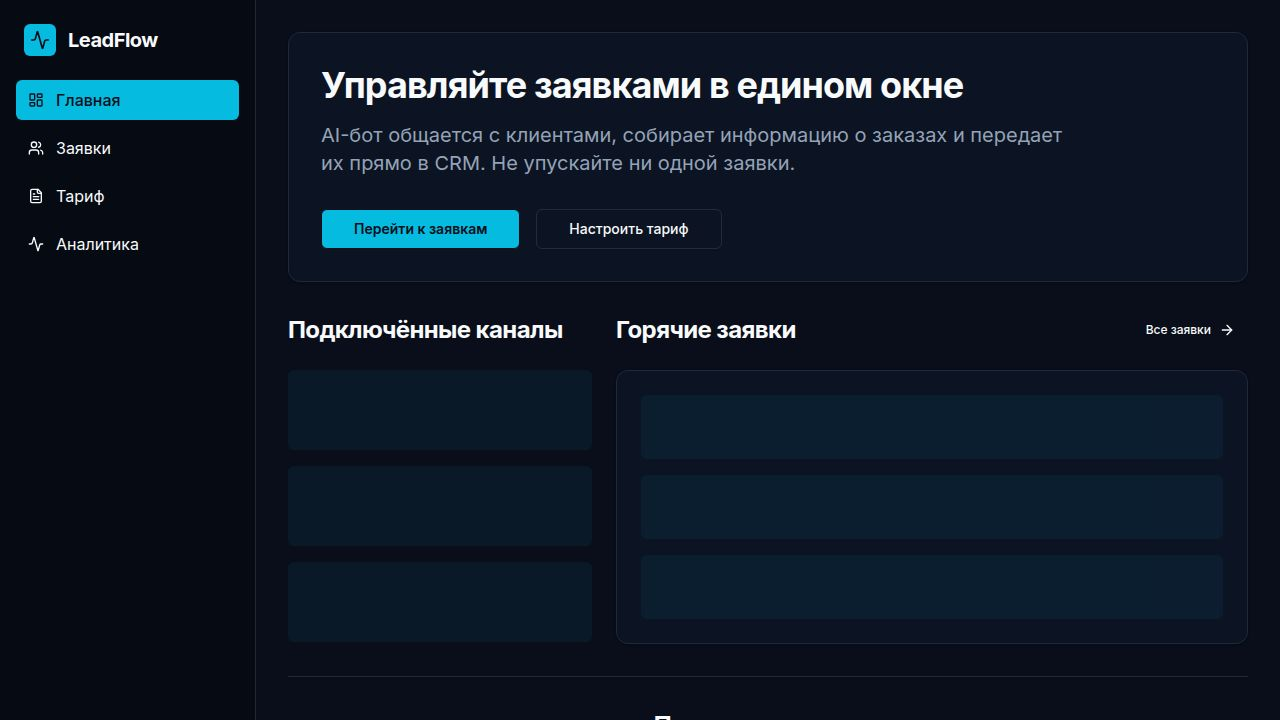
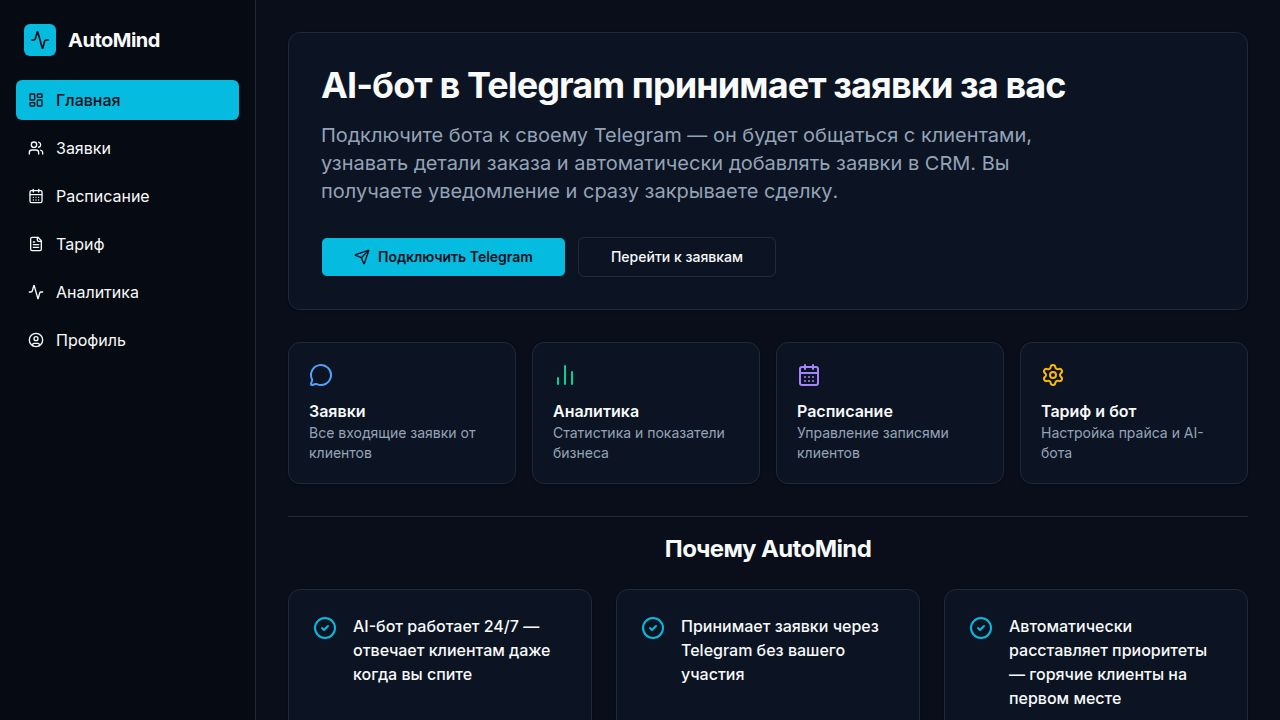
Improve profile page to handle user registration and existing accounts
Refactors the profile page to differentiate between new user registration and existing user profiles, addressing the issue of the "Сохраняем..." button appearing for already registered users.

Replit-Commit-Author: Agent
Replit-Commit-Session-Id: 1d4cea4e-092e-4a2a-be51-05aae2f8032e
Replit-Commit-Checkpoint-Type: full_checkpoint
Replit-Commit-Event-Id: 1fc39bb5-708d-4176-9d27-610b4768970d
Replit-Commit-Screenshot-Url: https://storage.googleapis.com/screenshot-production-us-central1/a2cc801b-731f-4885-bb4d-5eb19b6b8d47/1d4cea4e-092e-4a2a-be51-05aae2f8032e/WKT0vJA
Replit-Helium-Checkpoint-Created: true

diff --git a/artifacts/crm-dashboard/src/pages/profil.tsx b/artifacts/crm-dashboard/src/pages/profil.tsx
@@ -291,109 +291,122 @@ export default function Profil() {
             Ваш профиль
           </CardTitle>
           <CardDescription>
-            Укажите ваш Telegram-юзернейм. Покупатели будут писать боту, указывая ваш @username.
+            {profile ? "Ваш Telegram-аккаунт привязан к CRM" : "Укажите ваш Telegram-юзернейм для начала работы"}
           </CardDescription>
         </CardHeader>
         <CardContent className="space-y-4">
-          <div className="space-y-2">
-            <Label htmlFor="username">Ваш Telegram-юзернейм</Label>
-            <div className="flex gap-2">
-              <div className="relative flex-1">
-                <span className="absolute left-3 top-1/2 -translate-y-1/2 text-muted-foreground">@</span>
-                <Input
-                  id="username"
-                  placeholder="username"
-                  value={telegramUsername}
-                  onChange={(e) => setTelegramUsername(e.target.value.replace(/^@/, ""))}
-                  className="pl-7"
-                />
-              </div>
-              <Button onClick={handleRegister} disabled={registerMutation.isPending}>
-                {registerMutation.isPending ? "Сохраняем..." : "Сохранить"}
-              </Button>
-            </div>
-          </div>
-
-          {/* Recovery block — shown when username is taken or manually opened */}
-          {showRecovery ? (
-            <div className="rounded-lg border border-amber-500/30 bg-amber-500/5 p-4 space-y-3">
-              <div>
-                <p className="text-sm font-semibold text-amber-400 mb-1">Восстановление доступа</p>
-                <p className="text-xs text-muted-foreground">
-                  Если это ваш аккаунт — отправьте боту <code className="bg-muted px-1 rounded">/mytoken</code> из Telegram и вставьте полученный токен:
-                </p>
-              </div>
-              <div className="flex gap-2">
-                <Input
-                  placeholder="Вставьте API-токен из бота"
-                  value={recoveryToken}
-                  onChange={(e) => setRecoveryToken(e.target.value)}
-                  className="font-mono text-xs"
-                />
-                <Button size="sm" onClick={handleRecoverByToken}>Войти</Button>
-              </div>
-              <button
-                className="text-xs text-muted-foreground hover:text-foreground underline"
-                onClick={() => setShowRecovery(false)}
-              >
-                Отмена
-              </button>
-            </div>
-          ) : (
-            <button
-              className="text-xs text-muted-foreground hover:text-foreground underline"
-              onClick={() => setShowRecovery(true)}
-            >
-              Уже есть аккаунт? Войти по токену
-            </button>
-          )}
-
-          {profile && (
-            <div className="rounded-lg border bg-muted/20 p-4 space-y-3">
-              <div className="flex items-center justify-between gap-3">
-                <div className="space-y-1">
-                  <p className="text-xs text-muted-foreground">Telegram</p>
-                  <p className="font-medium">@{profile.telegramUsername}</p>
+          {!profile ? (
+            <>
+              {/* Registration form — only for new users */}
+              <div className="space-y-2">
+                <Label htmlFor="username">Ваш Telegram-юзернейм</Label>
+                <div className="flex gap-2">
+                  <div className="relative flex-1">
+                    <span className="absolute left-3 top-1/2 -translate-y-1/2 text-muted-foreground">@</span>
+                    <Input
+                      id="username"
+                      placeholder="username"
+                      value={telegramUsername}
+                      onChange={(e) => setTelegramUsername(e.target.value.replace(/^@/, ""))}
+                      className="pl-7"
+                    />
+                  </div>
+                  <Button onClick={handleRegister} disabled={registerMutation.isPending}>
+                    {registerMutation.isPending ? "Создаём..." : "Создать аккаунт"}
+                  </Button>
                 </div>
-                {isVerified ? (
-                  <Badge className="bg-green-500/15 text-green-500 border-green-500/30 gap-1 border">
-                    <ShieldCheck className="w-3 h-3" />
-                    Верифицирован
-                  </Badge>
-                ) : (
-                  <Badge variant="outline" className="text-yellow-500 border-yellow-500/30 gap-1">
-                    <ShieldAlert className="w-3 h-3" />
-                    Не верифицирован
-                  </Badge>
+              </div>
+
+              {/* Recovery block */}
+              {showRecovery ? (
+                <div className="rounded-lg border border-amber-500/30 bg-amber-500/5 p-4 space-y-3">
+                  <div>
+                    <p className="text-sm font-semibold text-amber-400 mb-1">Восстановление доступа</p>
+                    <p className="text-xs text-muted-foreground">
+                      Отправьте боту <code className="bg-muted px-1 rounded">/mytoken</code> из Telegram и вставьте полученный токен:
+                    </p>
+                  </div>
+                  <div className="flex gap-2">
+                    <Input
+                      placeholder="Вставьте API-токен из бота"
+                      value={recoveryToken}
+                      onChange={(e) => setRecoveryToken(e.target.value)}
+                      className="font-mono text-xs"
+                    />
+                    <Button size="sm" onClick={handleRecoverByToken}>Войти</Button>
+                  </div>
+                  <button
+                    className="text-xs text-muted-foreground hover:text-foreground underline"
+                    onClick={() => setShowRecovery(false)}
+                  >
+                    Отмена
+                  </button>
+                </div>
+              ) : (
+                <button
+                  className="text-xs text-muted-foreground hover:text-foreground underline"
+                  onClick={() => setShowRecovery(true)}
+                >
+                  Уже есть аккаунт? Войти по токену
+                </button>
+              )}
+            </>
+          ) : (
+            /* Profile info — for already registered users, no form */
+            <div className="space-y-3">
+              <div className="rounded-lg border bg-muted/20 p-4 space-y-3">
+                <div className="flex items-center justify-between gap-3">
+                  <div className="space-y-1">
+                    <p className="text-xs text-muted-foreground">Telegram</p>
+                    <p className="font-medium">@{profile.telegramUsername}</p>
+                  </div>
+                  {isVerified ? (
+                    <Badge className="bg-green-500/15 text-green-500 border-green-500/30 gap-1 border">
+                      <ShieldCheck className="w-3 h-3" />
+                      Верифицирован
+                    </Badge>
+                  ) : (
+                    <Badge variant="outline" className="text-yellow-500 border-yellow-500/30 gap-1">
+                      <ShieldAlert className="w-3 h-3" />
+                      Не верифицирован
+                    </Badge>
+                  )}
+                </div>
+
+                {!isVerified && (
+                  <div className="rounded-md border border-yellow-500/20 bg-yellow-500/5 p-3 text-sm text-yellow-600 dark:text-yellow-400 space-y-2">
+                    <p className="font-medium">Требуется верификация</p>
+                    <p className="text-xs">
+                      Пока username не верифицирован, покупатели не смогут найти вас. Отправьте команду{" "}
+                      <code className="bg-black/10 dark:bg-white/10 px-1 rounded">/token</code> боту.
+                    </p>
+                    <Button
+                      size="sm"
+                      variant="outline"
+                      className="w-full border-yellow-500/30 text-yellow-600 dark:text-yellow-400 hover:bg-yellow-500/10"
+                      onClick={handleRefreshStatus}
+                      disabled={isRefreshing}
+                    >
+                      <RefreshCw className={`w-3 h-3 mr-2 ${isRefreshing ? "animate-spin" : ""}`} />
+                      {isRefreshing ? "Проверяем..." : "Я отправил команду — проверить статус"}
+                    </Button>
+                  </div>
+                )}
+
+                {isVerified && (
+                  <div className="flex items-center gap-2 text-sm text-green-500">
+                    <Check className="w-4 h-4" />
+                    Telegram подтверждён — покупатели могут вас найти
+                  </div>
                 )}
               </div>
 
-              {!isVerified && (
-                <div className="rounded-md border border-yellow-500/20 bg-yellow-500/5 p-3 text-sm text-yellow-600 dark:text-yellow-400 space-y-2">
-                  <p className="font-medium">Требуется верификация</p>
-                  <p className="text-xs">
-                    Пока username не верифицирован, покупатели не смогут найти вас. Отправьте команду{" "}
-                    <code className="bg-black/10 dark:bg-white/10 px-1 rounded">/token</code> боту.
-                  </p>
-                  <Button
-                    size="sm"
-                    variant="outline"
-                    className="w-full border-yellow-500/30 text-yellow-600 dark:text-yellow-400 hover:bg-yellow-500/10"
-                    onClick={handleRefreshStatus}
-                    disabled={isRefreshing}
-                  >
-                    <RefreshCw className={`w-3 h-3 mr-2 ${isRefreshing ? "animate-spin" : ""}`} />
-                    {isRefreshing ? "Проверяем..." : "Я отправил команду — проверить статус"}
-                  </Button>
-                </div>
-              )}
-
-              {isVerified && (
-                <div className="flex items-center gap-2 text-sm text-green-500">
-                  <Check className="w-4 h-4" />
-                  Telegram подтверждён — покупатели могут вас найти
-                </div>
-              )}
+              <button
+                className="text-xs text-muted-foreground hover:text-foreground underline"
+                onClick={() => { localStorage.removeItem("crm_profile"); setProfile(null); }}
+              >
+                Выйти из аккаунта
+              </button>
             </div>
           )}
         </CardContent>